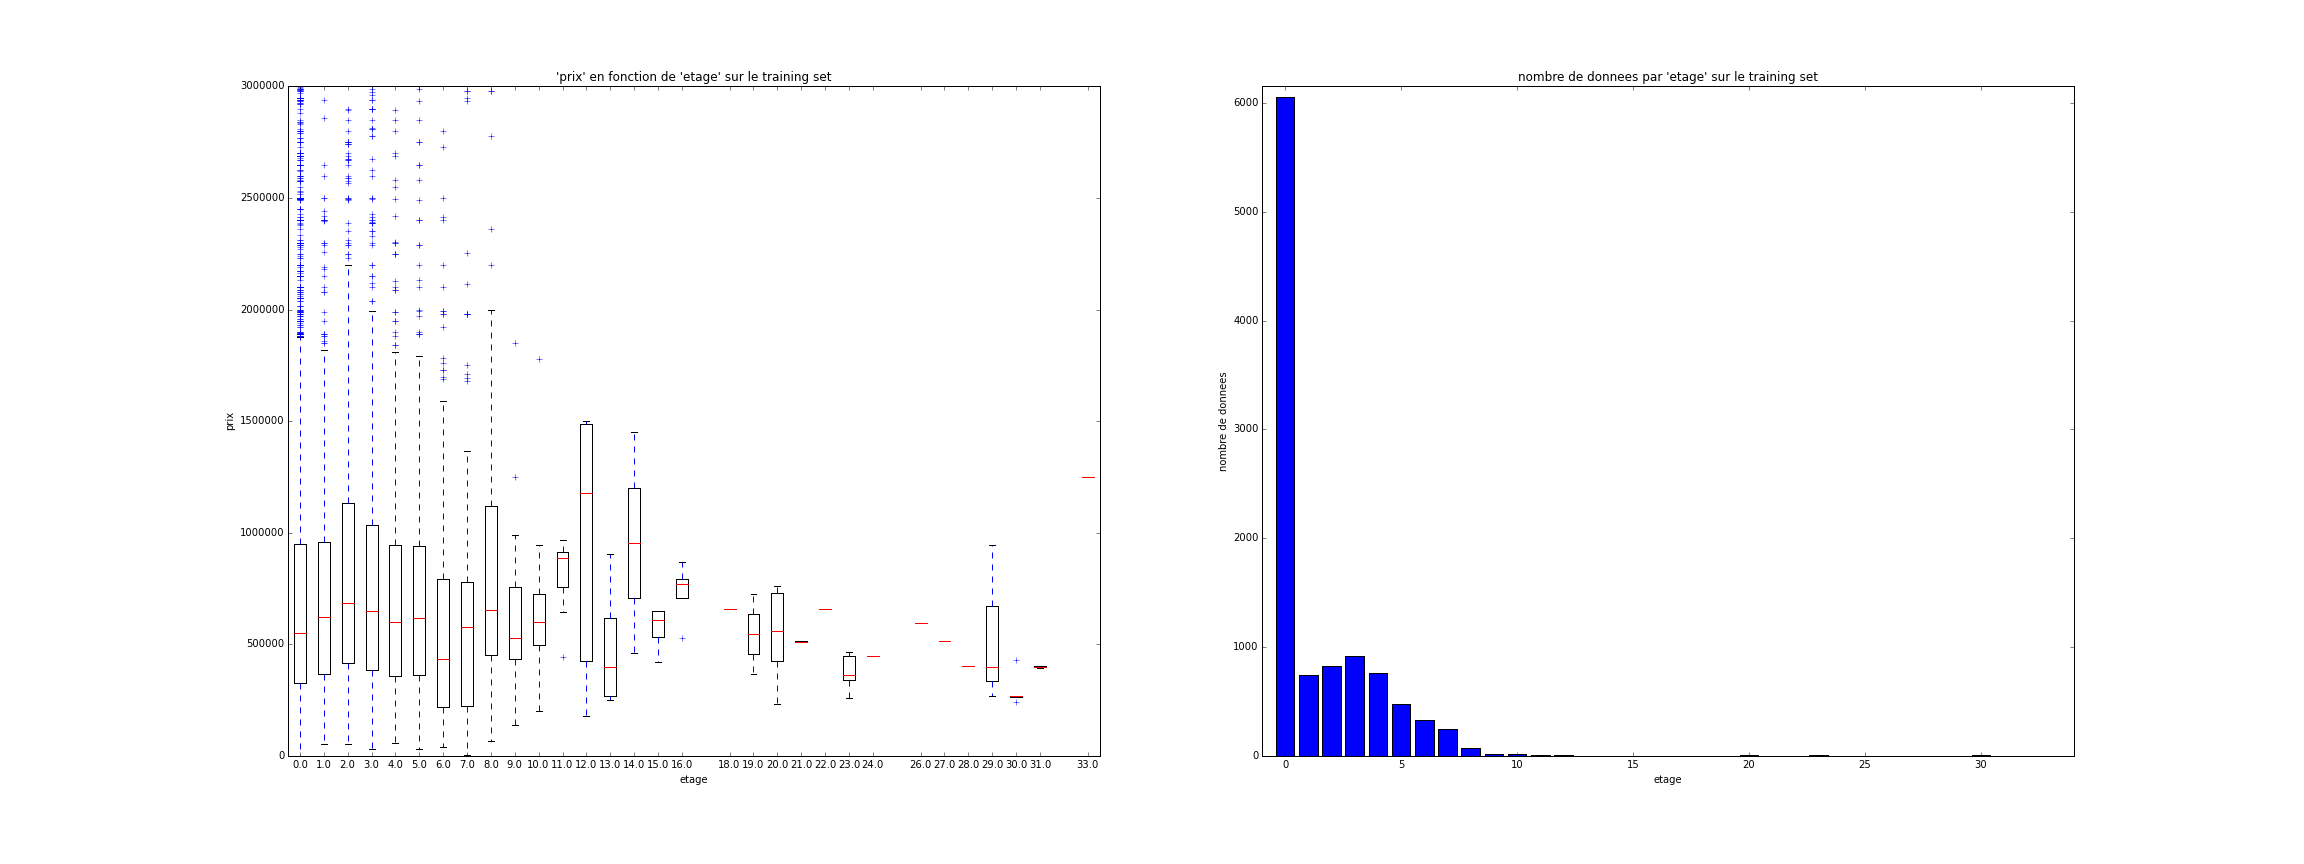
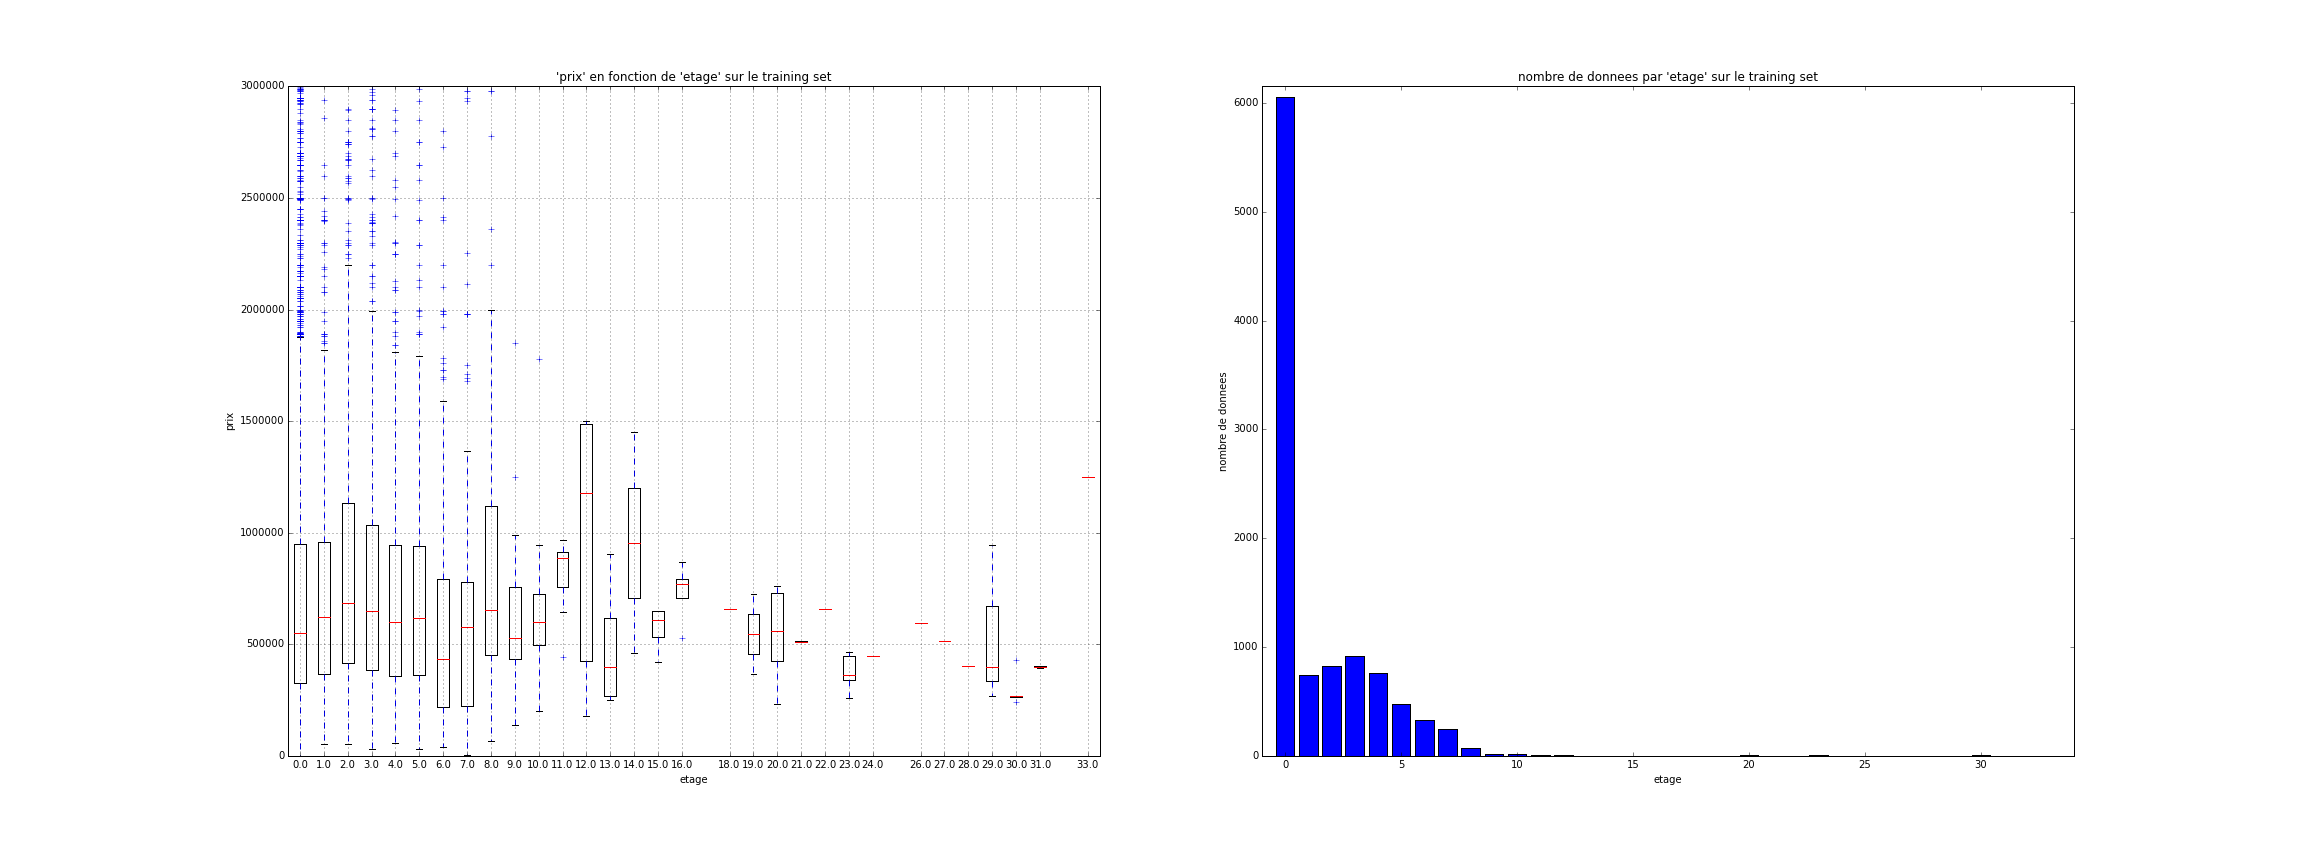
Update data-analysis.

diff --git a/data-analysis/data-analysis.py b/data-analysis/data-analysis.py
@@ -36,6 +36,11 @@ data = data.astype(np.float)
 
 def traceNuage(xname, yname):
     
+    # limite max en x, y du graphe (si defini = 1, sinon y_max = max(y))
+    defini = 0
+    x_max = 400
+    y_max = 8000000
+    
     # affichage
     plt.figure(figsize = (12,10))
 
@@ -47,14 +52,40 @@ def traceNuage(xname, yname):
     plt.scatter(x, y)
     
     # gestion de l'affichage
-    plt.xlim(0, max(x))
-    plt.ylim(0, max(y))
+    if defini:
+        plt.xlim(0, x_max)
+        plt.ylim(0, y_max)
+    else:
+        plt.xlim(0, max(x))
+        plt.ylim(0, max(y))
     plt.xlabel(xname)
     plt.ylabel(yname)
+    plt.grid(True)
     title("'"+yname+"' en fonction de '"+xname+"' sur le training set")
     
     # sauvegarde en png
     plt.savefig(yname+'_'+xname+datename+'.png')
+    
+# fonction pour tracer un histogramme
+
+def traceHisto(yname):
+    
+    # affichage
+    plt.figure(figsize = (12,10))
+
+    # donnees    
+    y = data[:,labels.index(yname)]
+    
+    # trace du graphe
+    hist(y)
+    
+    # gestion de l'affichage
+    plt.ylabel(yname)
+    plt.grid(True)
+    title("repartition de '"+yname+"' sur le training set")
+    
+    # sauvegarde en png
+    plt.savefig(yname+'_hist.png')
 
 # fonction pour tracer un parametre en fonction d'un parametre discret
 
@@ -95,6 +126,7 @@ def traceMoustache(xname, yname):
     
     plt.xlabel(xname)
     plt.ylabel(yname)
+    plt.grid(True)
     title("'"+yname+"' en fonction de '"+xname+"' sur le training set")
     
     # trace du graphe 2 histogramme
@@ -110,6 +142,11 @@ def traceMoustache(xname, yname):
     
     # sauvegarde en png
     plt.savefig(yname+'_'+xname+datename+'_box'+'.png')
+
+# histogramme prix, surface
+
+traceHisto('prix')
+traceHisto('surface')
 
 # prix en fonction de la surface
 
@@ -130,3 +167,5 @@ traceMoustache('ascenseur','prix')
 # prix en fonction de l'etage
 
 traceMoustache('etage','prix')
+
+# 
